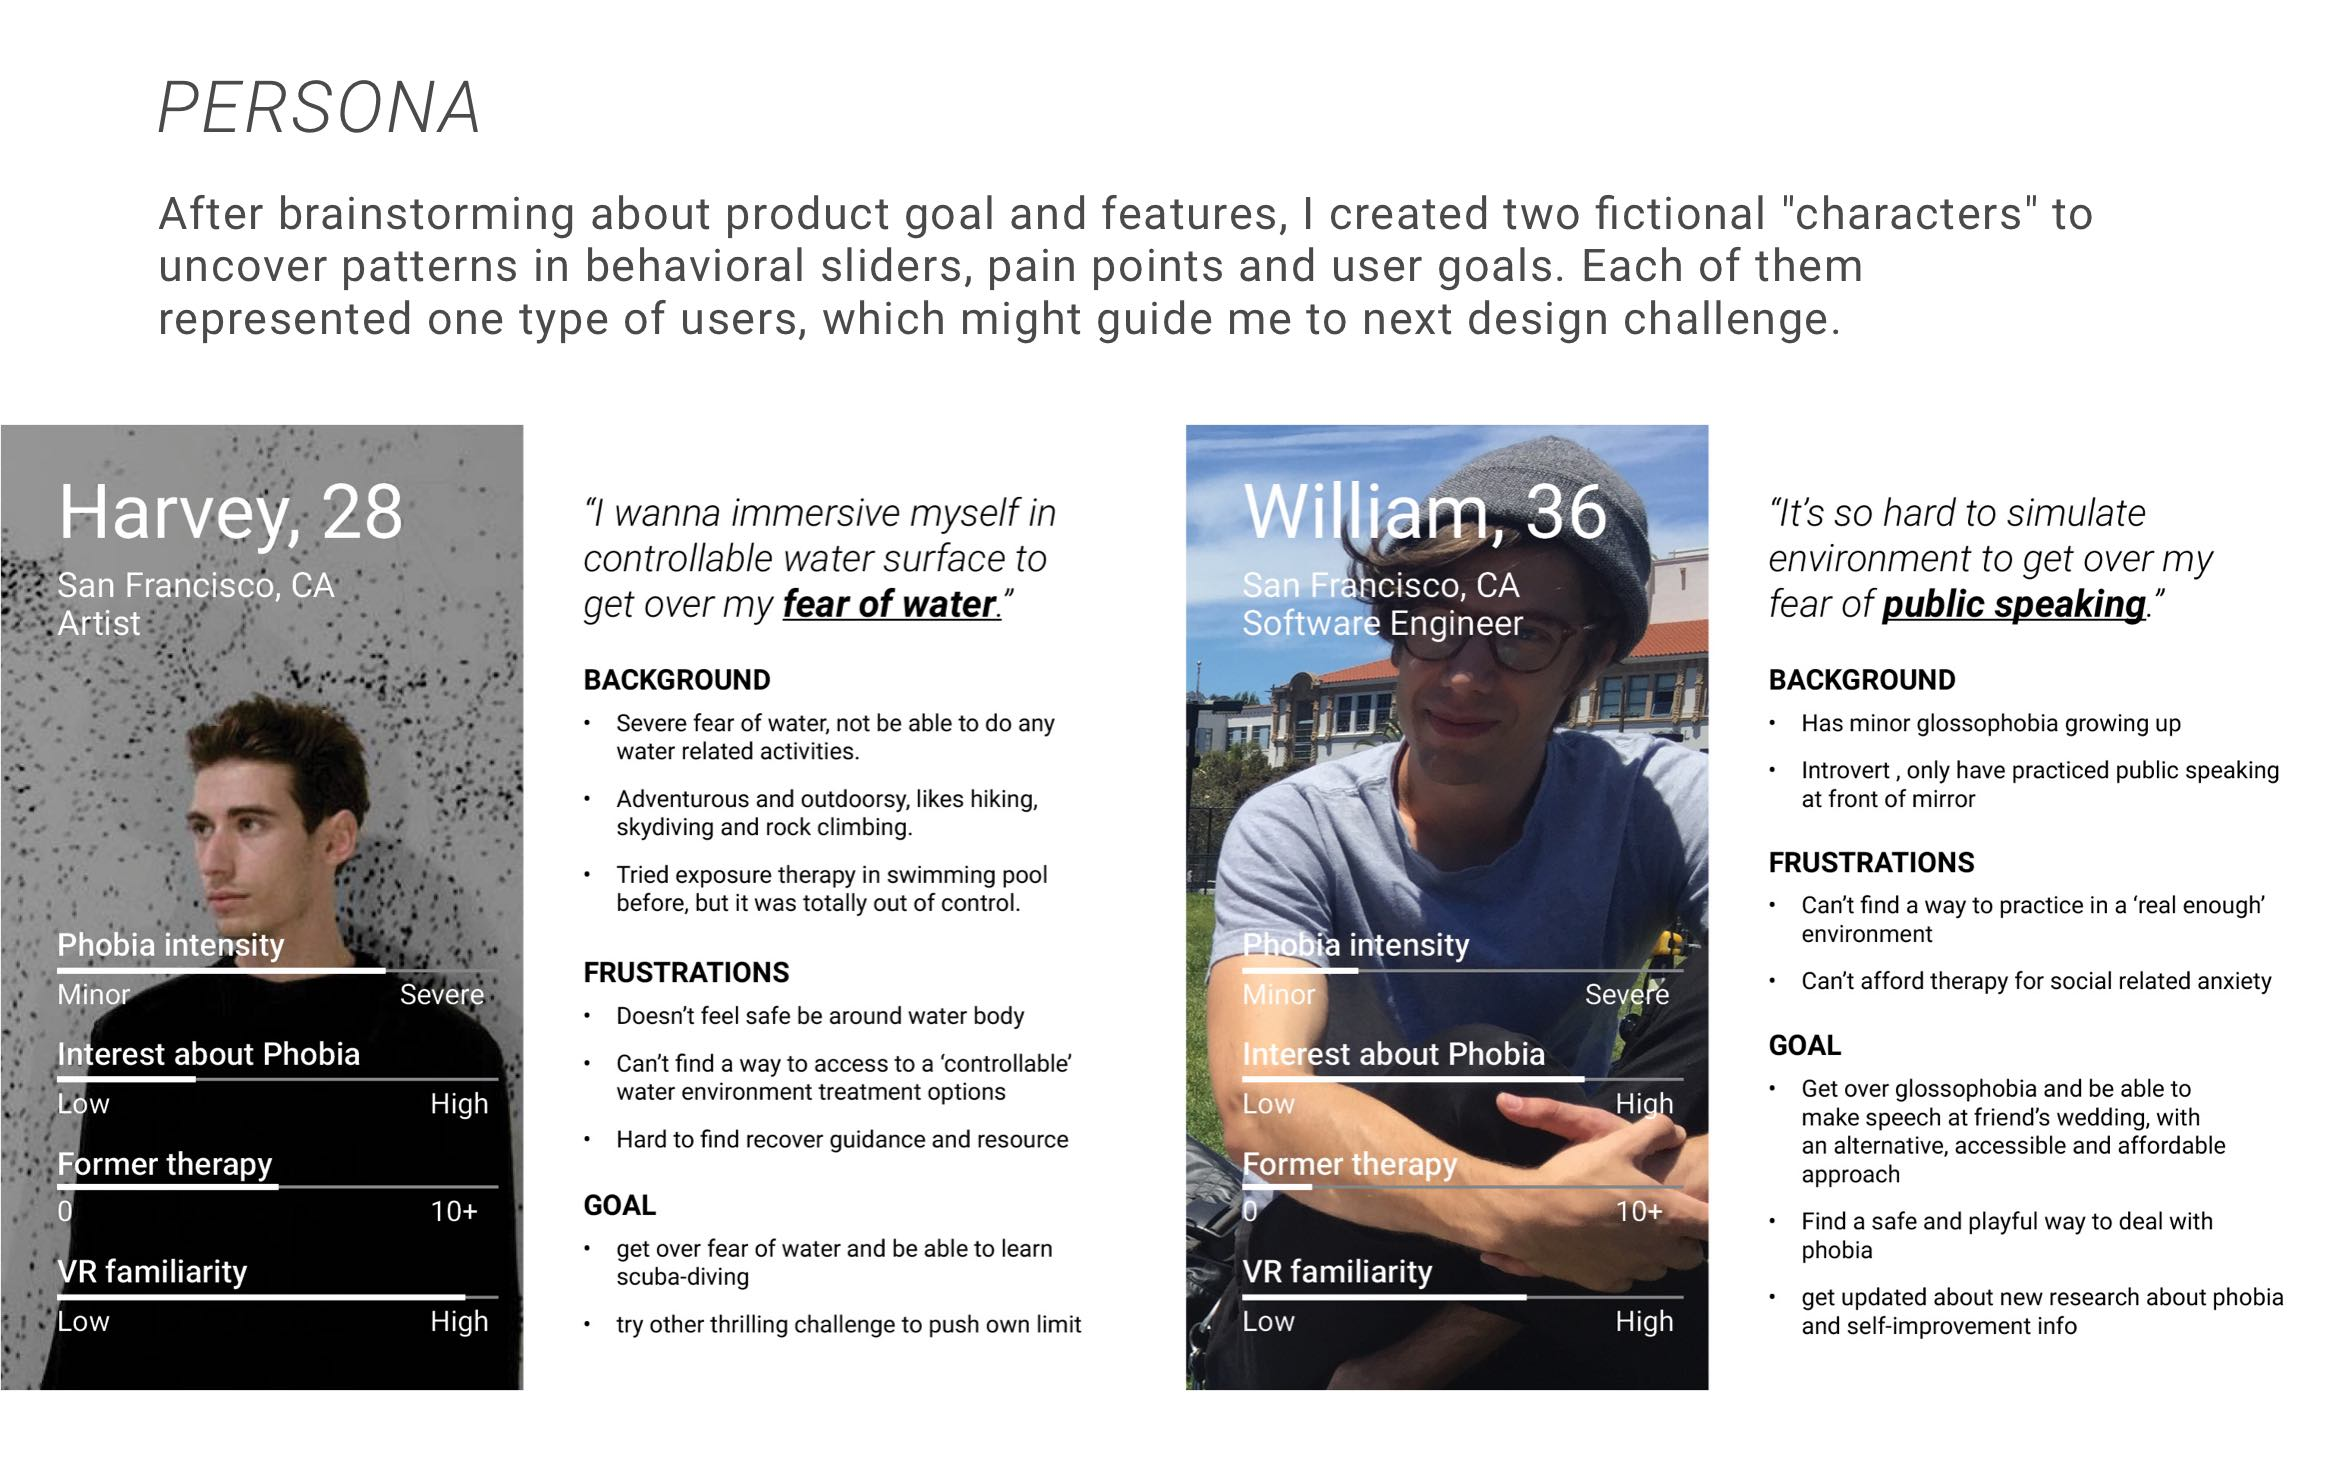
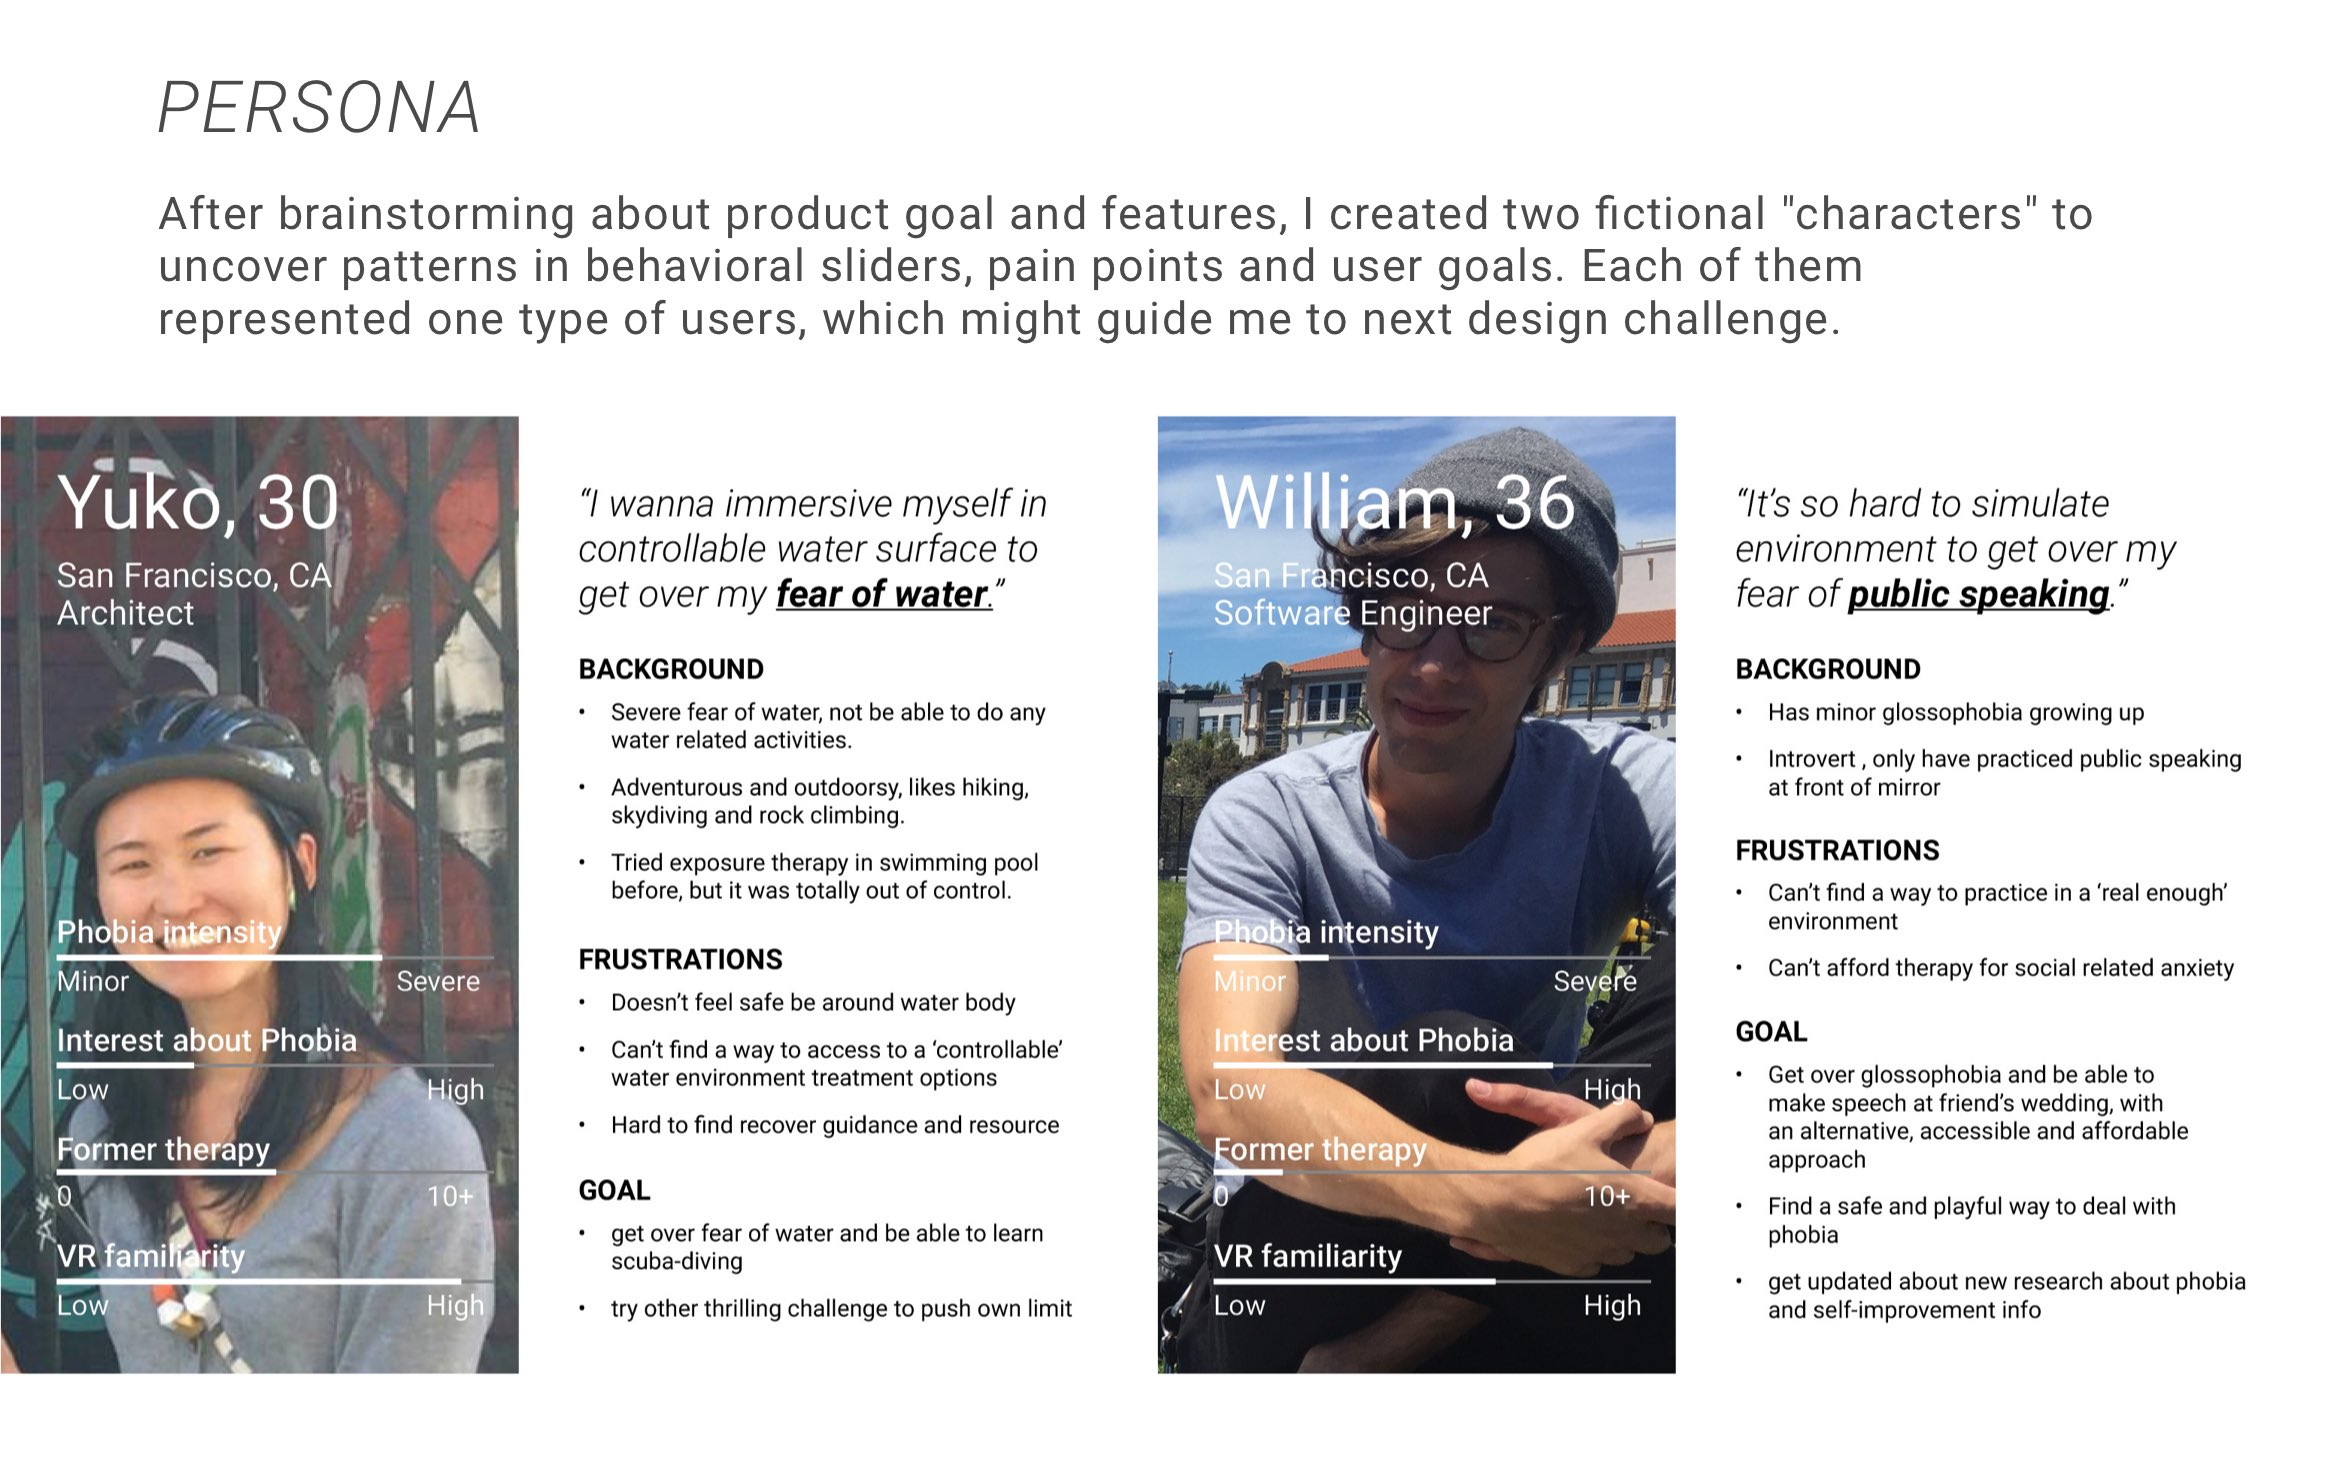
Updated phobiaVR intro page

Changed region(s): [[0.0, 0.2753, 0.4631, 0.9483], [0.494, 0.2753, 0.988, 0.9483]]

diff --git a/phobia.html b/phobia.html
@@ -153,7 +153,7 @@
 
 			<div class="desktop-8 tablet-12 columns">
 			<!-- <iframe class='test-test' src="https://player.vimeo.com/video/205510807?autoplay=1&loop=1" frameborder="0" webkitallowfullscreen mozallowfullscreen allowfullscreen></iframe> -->
-				<img src="images/uiux/phobia-vr/iphone-isometrix-vr-screen-test.jpg" alt="" />
+				<img src="images/uiux/phobia-vr/qianqian-ye-phobia-vr-intro.jpg" alt="" />
 				<img src="images/uiux/phobia-vr/phobia-wireframe-test.jpg" alt="" />
 				<img src="images/uiux/phobia-vr/qianqian-ye-phobia-vr-persona.jpg" alt="" />
 				<img src="images/uiux/phobia-vr/phobiavr-vi.jpg" alt="" />
